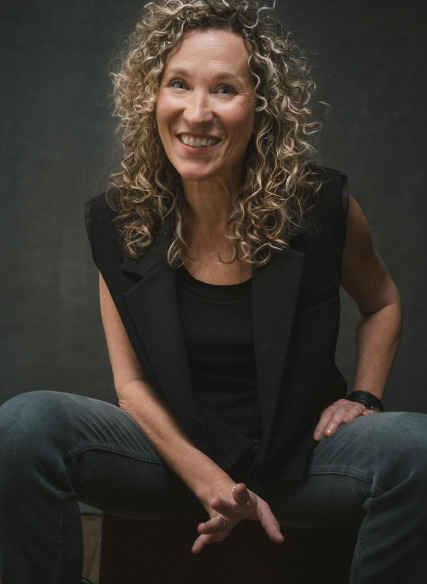
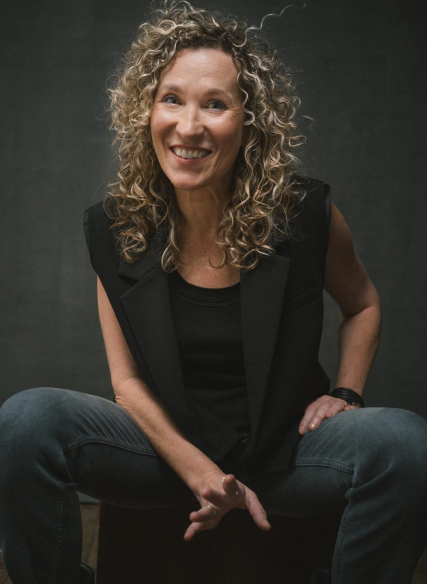
fix: mobile werkbilder gap, credit unter portrait, portrait + PDF neu

diff --git a/index.html b/index.html
@@ -313,7 +313,9 @@
 
     .program-notes .tamar {
       color: var(--red);
+      text-decoration: none;
     }
+    .program-notes .tamar:hover { opacity: 0.7; }
 
     /* Row 3: Werkbilder-Sektion (659px) */
     .werkbilder-section {
@@ -389,8 +391,8 @@
       display: inline-block;
     }
 
-    /* Credit: unten rechts — margin-top: auto drückt es ans Ende der Flex-Spalte
-       → bündig mit Unterkante des Portraits (Figma: top=2683px ≈ Portrait-Unterkante) */
+    /* Credit: desktop=rechte Spalte unten, mobile=unter Portrait */
+    .bio-credit--mobile { display: none; }  /* auf Desktop versteckt */
     .bio-credit {
       font-family: 'Inter', sans-serif;
       font-size: 12px;
@@ -570,8 +572,13 @@
       }
       .meta-body { font-size: 14px; }
 
-      .werkbilder { grid-template-columns: 1fr; }
+      .werkbilder { grid-template-columns: 1fr; row-gap: 30px; }
       .werkbild-gap { display: none; }
+
+      /* Credit unter Portrait anzeigen, das in bio-text verstecken */
+      .bio-credit--mobile  { display: block; margin-top: 8px; }
+      .bio-credit--desktop { display: none; }
+
       .section-title,
       .kontakt h2    { font-size: 22px; }
     }
@@ -670,7 +677,7 @@
 
     <div class="program-notes">
       <p>Rahmenprogramm wird über Instagram &amp; undwennich.wien bekannt gegeben,</p>
-      <p>Es werden Werke zu erwerben sein, die der Beratungsstelle <span class="tamar">TAMAR</span> gespendet werden.</p>
+      <p>Es werden Werke zu erwerben sein, die der Beratungsstelle <a class="tamar" href="https://tamar.at/" target="_blank" rel="noopener">TAMAR</a> gespendet werden.</p>
       <p>da die Künstlerin auch Lehrerin ist und alles parallel laufen wird.</p>
     </div>
 
@@ -696,8 +703,9 @@
     <div class="bio-inner">
       <div class="bio-image">
         <div class="bio-portrait-wrap">
-          <img src="images/portrait.jpg" alt="Patricia Reschenbach">
+          <img src="images/portrait.jpg?v=2" alt="Patricia Reschenbach">
         </div>
+        <p class="bio-credit bio-credit--mobile">Credit Maria Blum (2025)</p>
       </div>
       <div class="bio-text">
         <h2 class="section-title">Biografie</h2>
@@ -709,10 +717,10 @@
           Reflexion — über Körper, Scham, Verlust und weibliche Selbstermächtigung.<br><br>
           Seit 2020 teilt sie ihr Atelier in der Zirkusgasse 35 mit Emma Kersten-Weymayr.
         </p>
-        <a class="bio-pdf" href="BIO_Patricia Reschenbach.pdf" target="_blank" rel="noopener">
+        <a class="bio-pdf" href="images/BIO_Patricia Reschenbach.pdf" target="_blank" rel="noopener">
           BIO_Patricia Reschenbach.pdf
         </a>
-        <p class="bio-credit">Credit Maria Blum (2025)</p>
+        <p class="bio-credit bio-credit--desktop">Credit Maria Blum (2025)</p>
       </div>
     </div>
   </section>
